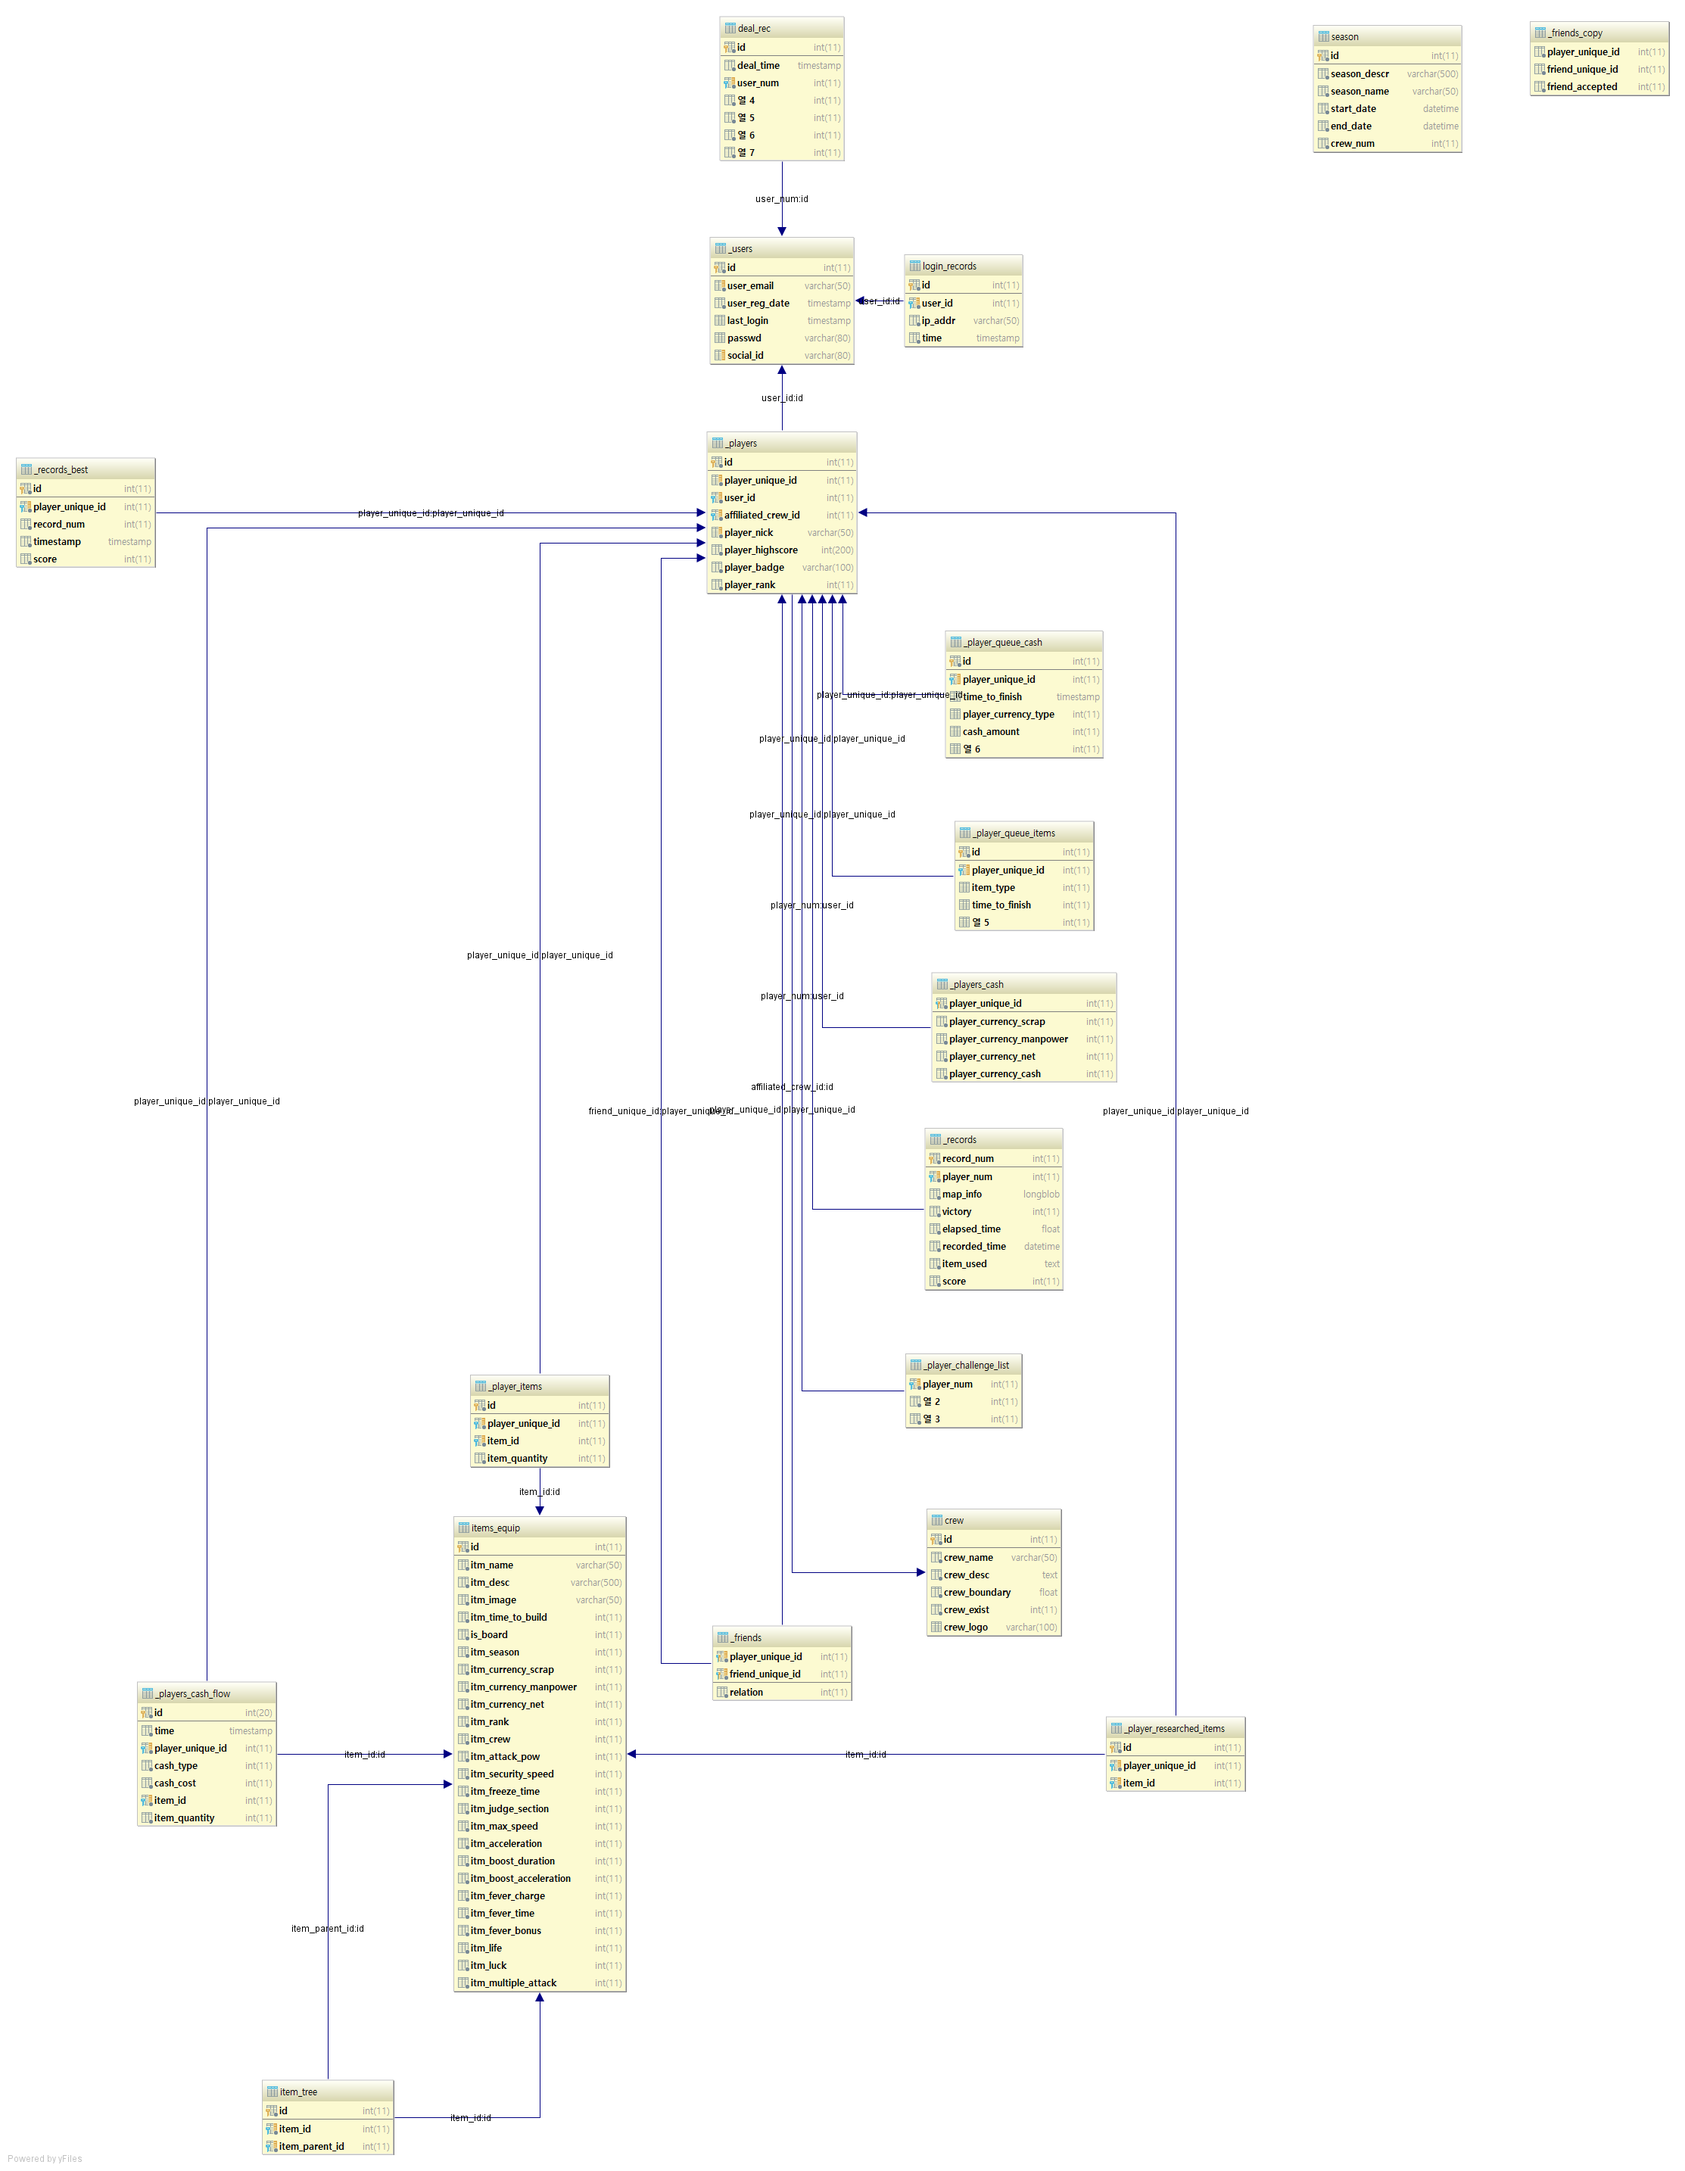
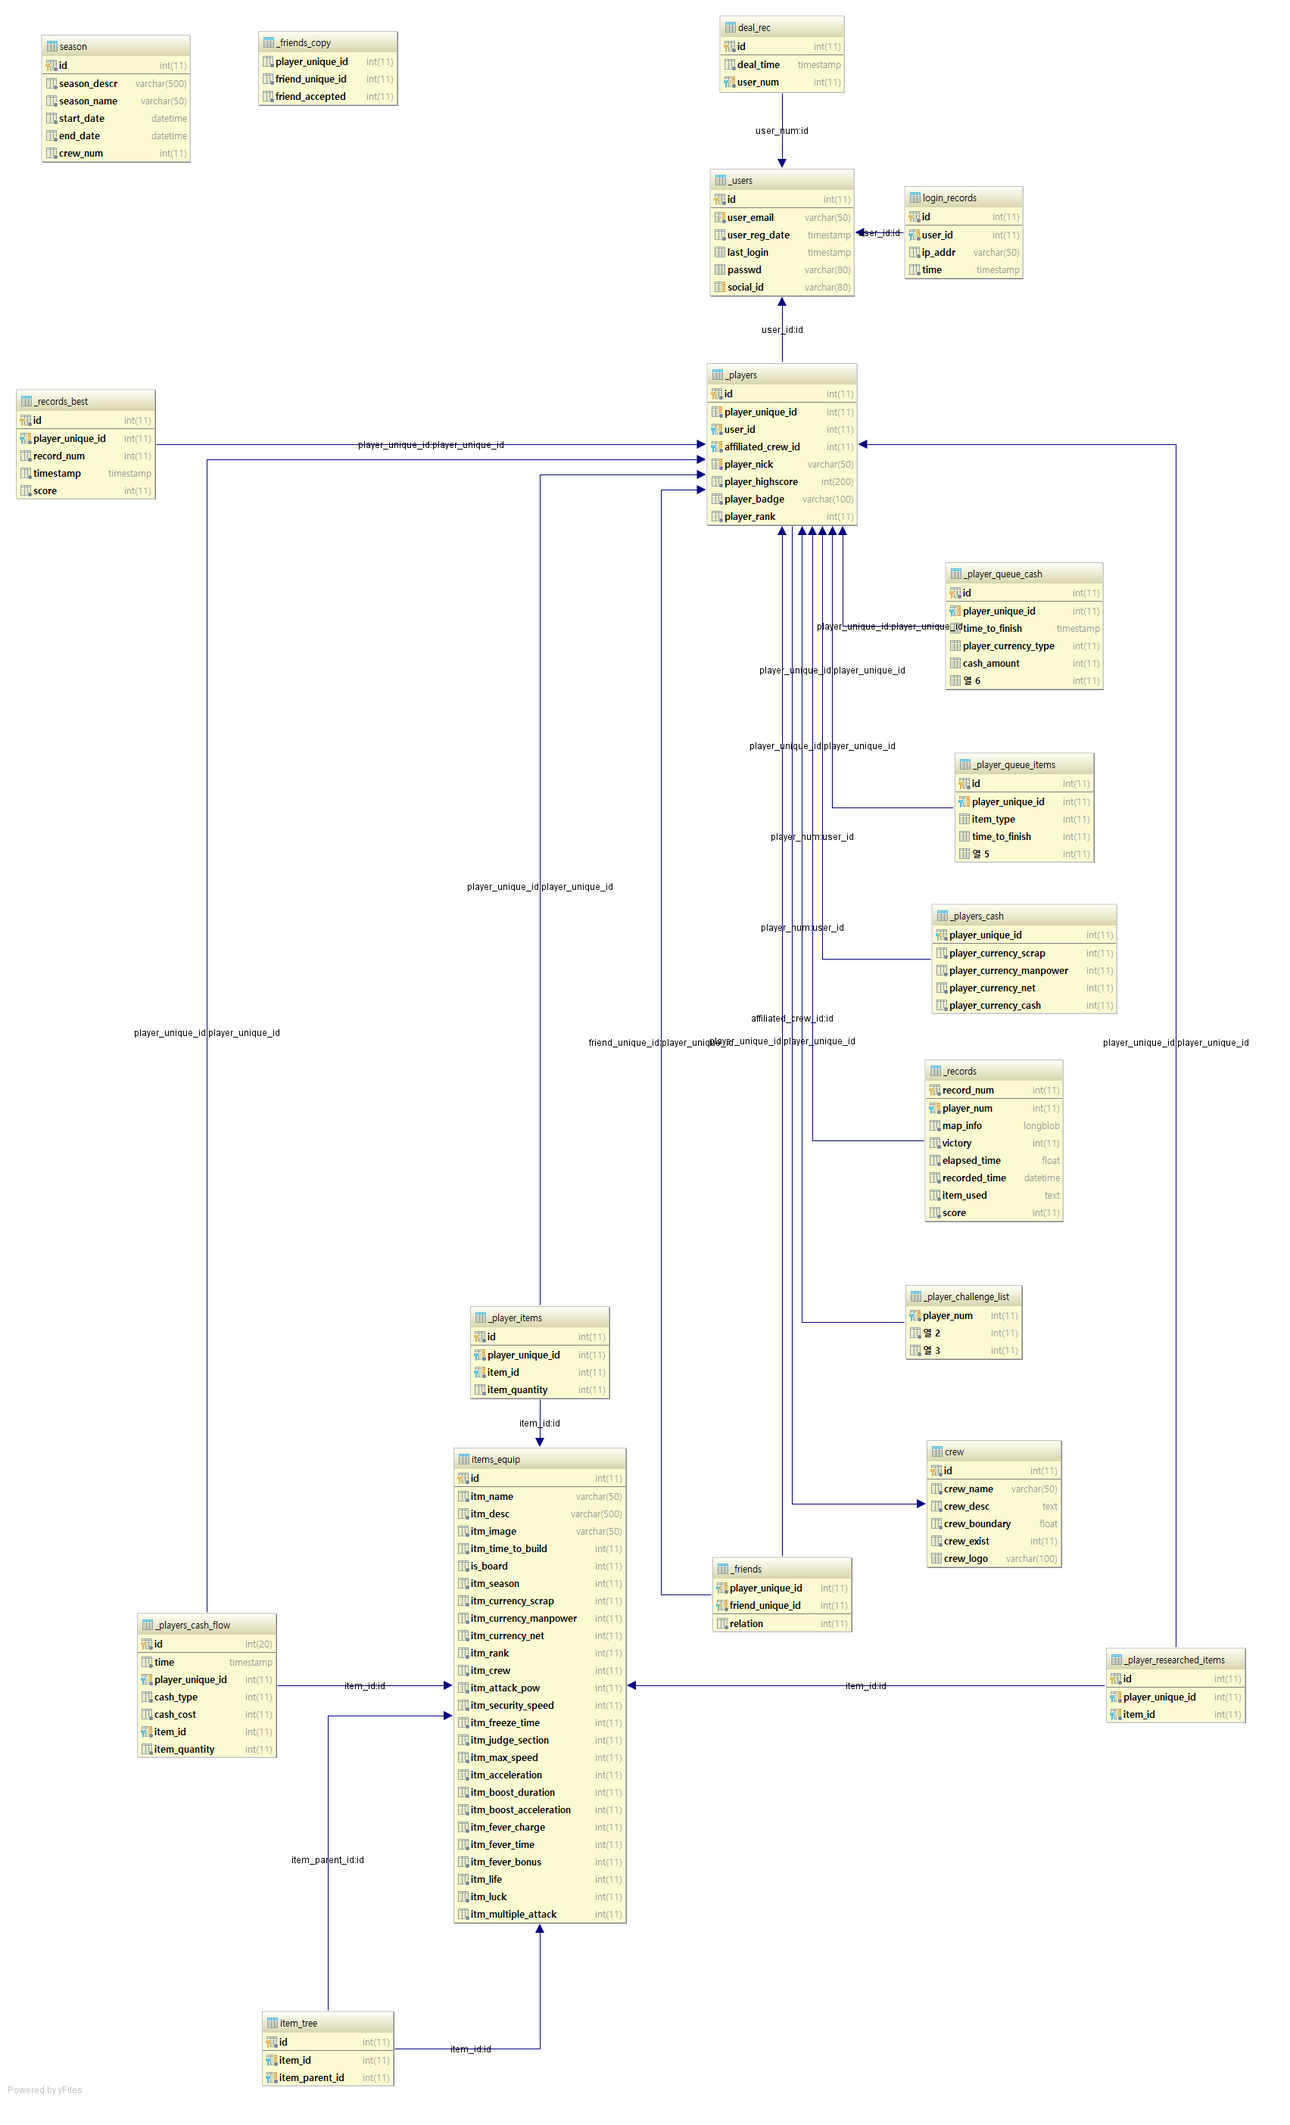
added readme and changes in the table.

diff --git a/readme.md b/readme.md
@@ -1,0 +1,28 @@
+# lif-api-server
+
+&nbsp;&nbsp;&nbsp; 해당 코드는 Lifgames 라고 하는 인디게임 스타트업에서 만들던 게임에서 구동시킬 예정이었던 REST API 서버코드입니다.<br>
+&nbsp;&nbsp;&nbsp; This code is a REST API server code intended to run for the Indie game made by Lifgames.<br>
+&nbsp;&nbsp;&nbsp; Ĉi tiu kodo estas REST-API servkodo intencis kondukti por la sendependa ludo faris de Lifgames. 
+
+&nbsp;&nbsp;&nbsp; 해당 게임의 이름은 <레일로드:크루배틀>로 예술동호인들이 철로 위에서 호버보드를 타고 경기를 하며 사람들의 관심을 끌게 한다는 컨셉으로 진행되는 모바일 게임입니다.<br>
+&nbsp;&nbsp;&nbsp; The name of the Game is <RailRoad:Crew Battle>, a mobile game with a concept of the art-club members on hoverboards competing each other on the railroads, trying to gain the people's attention.<br>
+&nbsp;&nbsp;&nbsp; La nomo de la ludo estas <RailRoad:Crew Battle>, la movebla ludo kiu havas la koncepto de la art-klubanoj kun flugtabulon konkuras kun sin mem por gajni la popolan intereson.
+
+[![mvp 소개영상](https://img.youtube.com/vi/hUqvv9Y1_TQ/sddefault.jpg)](https://youtu.be/hUqvv9Y1_TQ)<br>
+<MVP 소개 유튜브영상>
+
+&nbsp;&nbsp;&nbsp; 저는 게임 내 UI(유니티, C#), 그리고 게임에 구동될 API 서버 구축을 담당했습니다. 서버구축 언어로는 파이썬 Flask 프레임워크를 사용했고 서버단은 AWS를, DB는 Mysql로 아마존 RDS를 활용했습니다. AWS에서 EC2에 전체 코드를 넣고 이를 nginx로 구동시켰으며, https 적용에는 aws 인증관리자 서비스를 사용했습니다.<br>
+&nbsp;&nbsp;&nbsp; I participated in in-game UI(Unity, C#) and API server for the game to run on. For the server I used Python Flask Framework, and AWS for the server, mysql for the DB(AWS RDS). I ran the server by using AWS EC2 utilizing it with nginx, and AWS certificate service was used for applying https.<br>
+&nbsp;&nbsp;&nbsp; Mi partoprenis en fari la en-luda UI-on(Unity, C#) kaj la API servon por funkcii la ludo. Mi funkciis la servon per AWS EC2 utiligii kun nginx, kaj AWS certificate service estis uzita por apliki https.
+
+&nbsp;&nbsp;&nbsp; 서버 코드는 전부 혼자 만들었고 사용된 DB 테이블 구조는 다음과 같습니다.<br>
+&nbsp;&nbsp;&nbsp; The full code for the server is made by me, and the DB Structure is as follows.<br>
+&nbsp;&nbsp;&nbsp; La tutkodo estas farita de mi, kaj la DB strukturo estas kiel jene.
+
+![DB 테이블](https://raw.githubusercontent.com/kor-solidarity/lif_api_server/master/table_structure.png)
+
+-DB 테이블 구조-
+
+&nbsp;&nbsp;&nbsp; 아쉽게도 최종적으로 프로젝트가 중단됨에 따라 완성은 되지 않았습니다.<br>
+&nbsp;&nbsp;&nbsp; The code is regrettably left unfinished as the project itself got terminated.<br>
+&nbsp;&nbsp;&nbsp; La kodo bedaŭre ne perfektigis ĉar la projeckto ĉesis.
